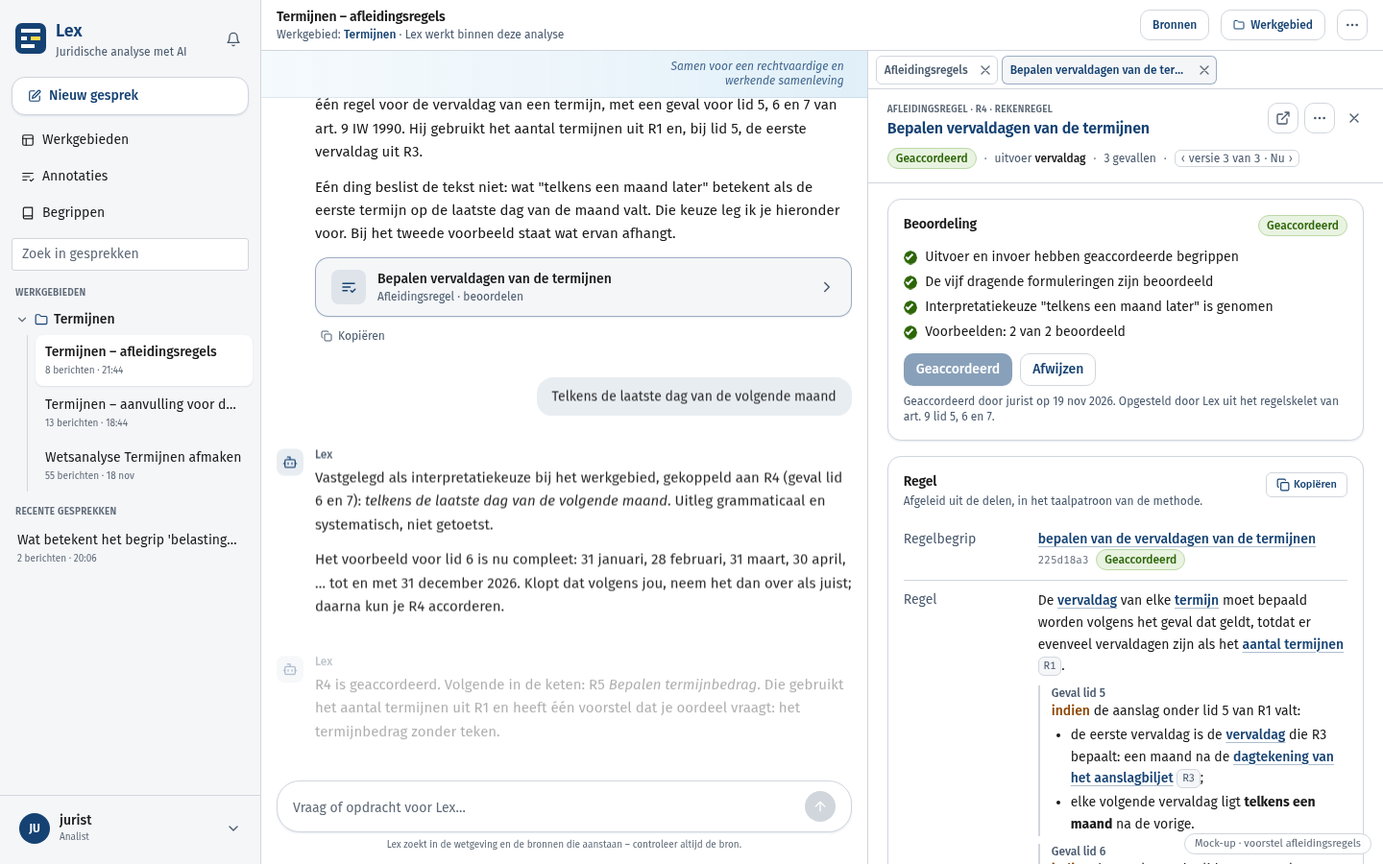
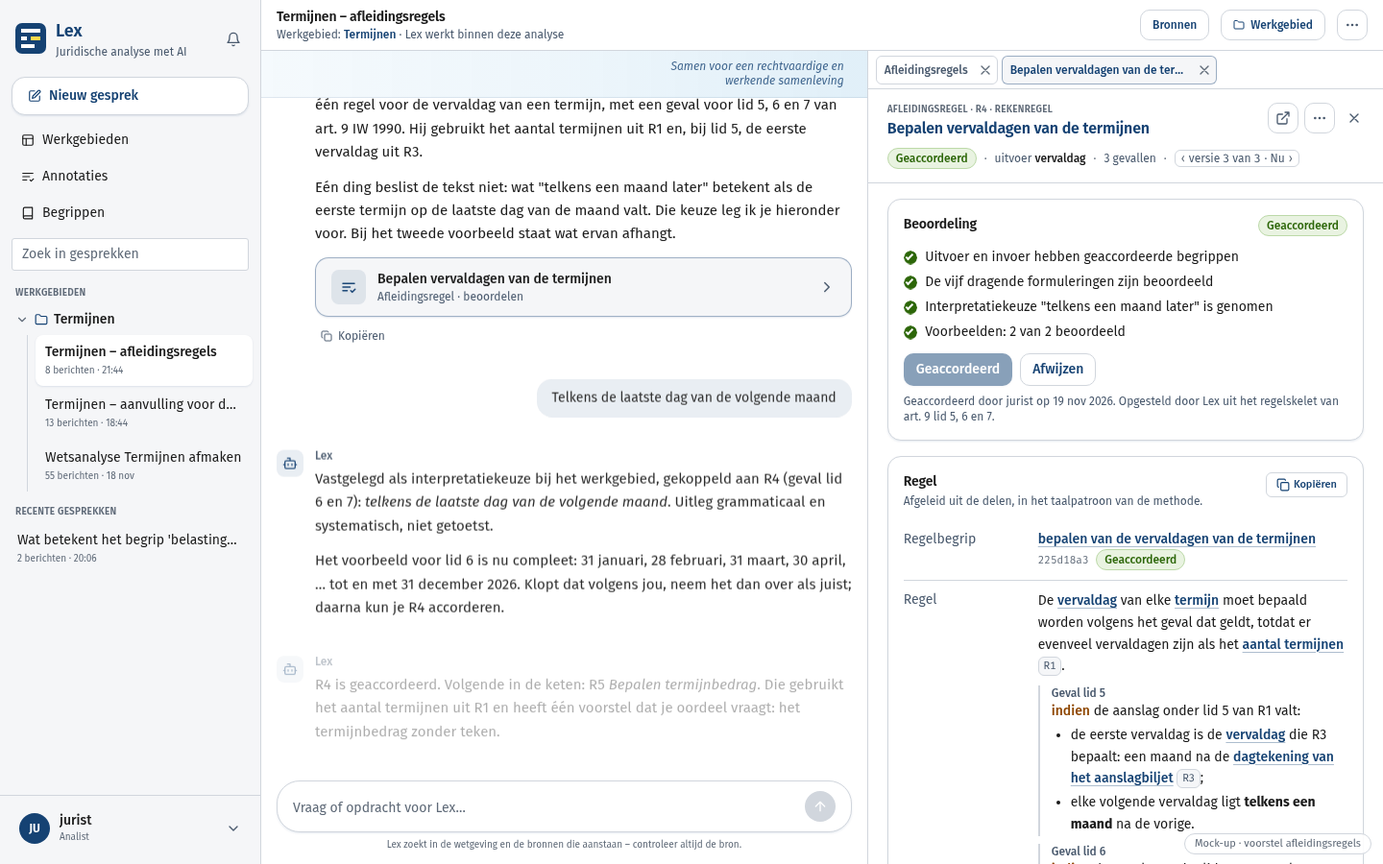
Plan afleidingsregels: richting gekozen, bouwplan R0–R7, afgestemd op de lessen van Termijnen
De regelkaart in de keten is gekozen. §13 geeft het bouwplan in bundels
R0–R7, aansluitend op plan-lessen-e2e-termijnen (#1764): operator op een
formulering, tussenresultaten met rol afgeleid, R8 als beslisregel. De
mock-up volgt. PLAN.md krijgt spoor V.

Changed region(s): [[0.2188, 0.5289, 0.625, 0.7156], [0.4062, 0.4356, 0.5938, 0.4667]]

diff --git a/docs/architectuur/media/afleidingsregels-voorstel.html b/docs/architectuur/media/afleidingsregels-voorstel.html
@@ -163,7 +163,7 @@ body { background: rgb(var(--paper)); color: rgb(var(--ink)); }
               <div class="mb-2"><button type="button" class="inline-flex items-center gap-1.5 rounded-knop-xs px-1 text-xs text-muted transition-colors hover:text-ink"><span>Denkproces</span><svg class="ic -rotate-90" viewBox="0 0 24 24"><path d="m6 9 6 6 6-6"/></svg></button></div>
               <div class="space-y-3 break-words text-lees leading-relaxed text-ink">
                 <p class="leading-relaxed">Ik ben bij de analysevraag begonnen. Die vraagt wanneer er mag worden verrekend en hoe dat doorwerkt in de termijnbedragen. Van daaruit heb ik teruggezocht welke afleidingsregels die waarden leveren, en welke regels hún invoer leveren.</p>
-                <p class="leading-relaxed">Dat zijn zeven regels. Art. 24 lid 2 IW 1990 is een bevoegdheid en geen afleidingsregel; die staat er wel bij, afgewezen. Ik stel de regels van onder naar boven op, zodat elke regel op beoordeelde invoer rust.</p>
+                <p class="leading-relaxed">Dat zijn acht regels. Art. 24 lid 2 IW 1990 geeft een bevoegdheid onder voorwaarden; volgens de methode is dat een beslisregel, dus die staat er als achtste bij. Ik stel de regels van onder naar boven op, zodat elke regel op beoordeelde invoer rust.</p>
               </div>
               <div class="mt-3"><button type="button" data-tab="keten" class="chip flex w-full items-center gap-3 rounded-kaart border border-line bg-surface px-4 py-3 text-left shadow-zacht transition-all hover:-translate-y-0.5 hover:border-lint/40 hover:shadow-kaart">
                 <span class="flex h-9 w-9 shrink-0 items-center justify-center rounded-lg bg-lint/10 text-lint" aria-hidden="true"><svg class="ic18" viewBox="0 0 24 24"><rect x="3" y="15" width="7" height="6" rx="1"/><rect x="14" y="15" width="7" height="6" rx="1"/><rect x="8.5" y="3" width="7" height="6" rx="1"/><path d="M6.5 15v-2.5h11V15M12 12.5V9"/></svg></span>
@@ -357,7 +357,7 @@ body { background: rgb(var(--paper)); color: rgb(var(--ink)); }
                 <ul class="space-y-2 text-sm">
                   <li><span class="pil pil-neutraal mr-1">beleid</span>Leidraad 9.1: de laatste termijn op 31 december (activiteit 5, alleen signaleren).</li>
                   <li><span class="pil pil-neutraal mr-1">beleid</span>Vervaldagen bij een dagtekening op de 29e tot en met de 31e (R3, R4).</li>
-                  <li><span class="pil pil-neutraal mr-1">operator</span>"een maand na" staat in de operatorcatalogus; er is geen gemarkeerde formulering voor.</li>
+                  <li><span class="pil pil-neutraal mr-1">operator</span>"telkens een maand later" krijgt nog een operatorbegrip; voorstel uit de namenlijst: <i>plus één maand</i>.</li>
                 </ul>
               </section>
 
@@ -377,14 +377,14 @@ body { background: rgb(var(--paper)); color: rgb(var(--ink)); }
                   <button type="button" aria-label="Exporteren" class="focus-ring inline-flex shrink-0 items-center justify-center border border-line bg-paper text-muted h-8 w-8 rounded-knop"><svg class="ic" viewBox="0 0 24 24"><circle cx="5" cy="12" r="1"/><circle cx="12" cy="12" r="1"/><circle cx="19" cy="12" r="1"/></svg></button>
                 </div>
               </div>
-              <div class="flex flex-wrap items-center gap-x-2 gap-y-1 text-xs text-muted"><span id="k-teller">3 van 7 beoordeeld</span><span class="text-faint">·</span><span>1 afgewezen</span><span class="text-faint">·</span><span>van onder naar boven</span></div>
+              <div class="flex flex-wrap items-center gap-x-2 gap-y-1 text-xs text-muted"><span id="k-teller">3 van 8 beoordeeld</span><span class="text-faint">·</span><span>van onder naar boven</span></div>
             </div>
           </div>
           <div class="min-h-0 flex-1 overflow-y-auto px-5 py-4">
             <div class="space-y-4 text-sm text-ink">
               <section class="kaart" aria-label="Diagram van de keten">
                 <p class="mb-2 text-xs text-muted">Van de analysevraag naar de basisgegevens. Een pijl loopt van de regel die een begrip afleidt naar de regel die het gebruikt.</p>
-                <div class="overflow-x-auto"><svg viewBox="0 0 460 250" class="keten" role="img" aria-label="Keten: R1 en R3 onderaan; R2, R4 en R5 daarboven; R6 en R7 bovenaan.">
+                <div class="overflow-x-auto"><svg viewBox="0 0 460 250" class="keten" role="img" aria-label="Keten: R1 en R3 onderaan; R2, R4 en R5 daarboven; R6, R7 en R8 bovenaan.">
                   <defs><marker id="pp" viewBox="0 0 8 8" refX="7" refY="4" markerWidth="6" markerHeight="6" orient="auto"><path d="M0,0 L8,4 L0,8 z" fill="rgb(95 106 120)"/></marker></defs>
                   <g fill="none" stroke="rgb(95 106 120)" stroke-width="1.2">
                     <path d="M70 196 V170" marker-end="url(#pp)"/><path d="M90 196 C120 180 200 182 220 170" marker-end="url(#pp)"/><path d="M110 196 C200 182 360 184 380 170" marker-end="url(#pp)"/><path d="M300 196 C280 184 250 182 240 170" marker-end="url(#pp)"/>
@@ -398,6 +398,7 @@ body { background: rgb(var(--paper)); color: rgb(var(--ink)); }
                   <g class="kn"><rect x="150" y="20" width="160" height="40" rx="8"/><text x="162" y="37" class="t1">R7 Tijdstip verrekening</text><text x="162" y="52" class="t2">→ tijdstip van verrekening</text></g>
                   <g class="kn"><rect x="320" y="20" width="130" height="40" rx="8"/><text x="332" y="37" class="t1">R6 Wijze uitbetaling</text><text x="332" y="52" class="t2">→ wijze · beleid</text></g>
                   <line x1="130" y1="148" x2="160" y2="148" stroke="rgb(95 106 120)" stroke-dasharray="2 3"/>
+                  <g class="kn"><rect x="10" y="20" width="120" height="40" rx="8"/><text x="22" y="37" class="t1">R8 Bevoegdheid</text><text x="22" y="52" class="t2">→ ja/nee · art. 24 lid 2</text></g>
                 </svg></div>
               </section>
               <section class="kaart" aria-label="Regels in de keten">
@@ -409,7 +410,7 @@ body { background: rgb(var(--paper)); color: rgb(var(--ink)); }
                   <li class="rij"><div class="min-w-0"><p class="font-medium text-ink">R5 Bepalen termijnbedrag</p><p class="text-xs text-muted">rekenregel · 3 gevallen · → termijnbedrag</p></div><span class="pil pil-neutraal">Niet gestart</span></li>
                   <li class="rij"><div class="min-w-0"><p class="font-medium text-ink">R6 Bepalen wijze van uitbetaling</p><p class="text-xs text-muted">beslisregel · Leidraad 9.3 · → wijze van uitbetaling</p></div><span class="pil pil-neutraal">Niet gestart</span></li>
                   <li class="rij"><div class="min-w-0"><p class="font-medium text-ink">R7 Bepalen tijdstip van verrekening</p><p class="text-xs text-muted">rekenregel · 2 gevallen · → tijdstip van verrekening</p></div><span class="pil pil-neutraal">Niet gestart</span></li>
-                  <li class="rij"><div class="min-w-0"><p class="font-medium text-muted">Art. 24 lid 2 IW 1990</p><p class="text-xs text-muted">geen afleidingsregel: een bevoegdheid onder voorwaarden (rechtsbetrekking)</p></div><span class="pil pil-rood">Afgewezen</span></li>
+                  <li class="rij"><div class="min-w-0"><p class="font-medium text-ink">R8 Bepalen bevoegdheid tot verrekening vóór het verstrijken van de betalingstermijn</p><p class="text-xs text-muted">beslisregel · art. 24 lid 2 · → bevoegdheid (ja/nee)</p></div><span class="pil pil-neutraal">Niet gestart</span></li>
                 </ul>
               </section>
             </div>
@@ -522,7 +523,7 @@ body { background: rgb(var(--paper)); color: rgb(var(--ink)); }
     $("r-door").textContent = "Geaccordeerd door jurist op 19 nov 2026. Opgesteld door Lex uit het regelskelet van art. 9 lid 5, 6 en 7.";
     $("k-r4-pil").className = "pil pil-groen"; $("k-r4-pil").textContent = "Geaccordeerd";
     $("k-r4").setAttribute("class", "kn ok");
-    $("k-teller").textContent = "4 van 7 beoordeeld";
+    $("k-teller").textContent = "4 van 8 beoordeeld";
     $("zb-teller").textContent = "8 berichten · 21:44";
     bericht('<p class="leading-relaxed">R4 is geaccordeerd. Volgende in de keten: R5 <em>Bepalen termijnbedrag</em>. Die gebruikt het aantal termijnen uit R1 en heeft één voorstel dat je oordeel vraagt: het termijnbedrag zonder teken.</p>', true);
   });

diff --git a/docs/architectuur/plan-afleidingsregels-in-lex.md b/docs/architectuur/plan-afleidingsregels-in-lex.md
@@ -1,6 +1,6 @@
 # Plan: de afleidingsregels in Lex (activiteit 3b)
 
-Status: **concept; richting voorgesteld in §12 (combinatie), wacht op akkoord van de gebruiker; nog niets gebouwd** · Datum: 2026-11-19 ·
+Status: **richting gekozen (gebruiker, 19 nov 2026: de regelkaart in de keten, §12.3); bouwplan in §13; nog niets gebouwd** · Datum: 2026-11-19 ·
 Hoort bij: [plan-afleidingsregels.md](plan-afleidingsregels.md) (het onderzoek, de gaten D1–D6, A1–A5, U1–U4, R1–R3, M1–M2),
 de regels van het team voor Termijnen (`afleidingsregels-termijnen-team.md`, PR #1762), [ADR-011](adr-011-relaties-tussen-markeringen.md)
 (het regelskelet), [ADR-005](adr-005-vraag-lex-en-agents.md), [ADR-008](adr-008-antwoordsjablonen.md),
@@ -103,11 +103,16 @@ voor een losse regel en een beslistabel.
 - **`regel_invoer`**: `regel_id`, `begrip_id`, `volgorde`, `rol` (`invoer` of `parameter`), en waar de invoer vandaan
   komt (de `invoer`-relatie in het skelet). Een invoerbegrip dat de uitvoer van een andere regel is, maakt de hiërarchie
   (§3.5).
-- **Operatoren**: het team vond geen gemarkeerde formulering voor *tellen van maanden*, *tijdsduur na tijdstip* en
-  *gedeeld door*. Een operator wordt daarom **geen begrip zonder formulering**: de bewerking komt uit een vaste,
-  generieke catalogus in code (`operatoren.json` in de skill, gegenereerd naar api en frontend zoals de
-  relatiecatalogus). Waar wél een gemarkeerde operator is (*ten hoogste*, R6), wijst de regel naar dat element.
-  Open keuze 4.
+- **Operatoren** (bijgesteld 19 nov 2026, na `plan-lessen-e2e-termijnen.md` §0 en M-3a-1): volgens de methode is een
+  operator een **operatorbegrip op een gemarkeerde formulering**, dat elke formulering met dezelfde bewerking
+  hergebruikt ("na", "gelijke", "telkens een maand later" staan wél in de tekst van Termijnen). Een vaste lijst met
+  namen (`operatoren.json` in de skill, gegenereerd naar api en frontend zoals de relatiecatalogus) dient alleen als
+  voorstel voor de naam. Wat in het taalpatroon zelf staat ("moet berekend worden als", "indien aan alle volgende
+  voorwaarden is voldaan"), is regelvorm en geen begrip. Ontbreekt de formulering echt, dan is dat een open punt
+  (*skeletgat*), geen begrip zonder grondslag. Open keuze 4 is daarmee beslist, tenzij de gebruiker anders kiest.
+- **Tussenresultaten**: een tussenresultaat van een berekening krijgt een eigen regel met een eigen uitvoerbegrip (rol
+  `afgeleid`, PR #1760), dat rust op de afleidingsregel-markering waaruit het volgt. Zo kan het *termijnregime* uit de
+  proef op papier terugkomen.
 - **Parameterwaarden per tijdvak**: R2 (zes weken) en R6 (€ 49) hebben een waarde die per tijdvak kan verschillen.
   **`parameter_waarden`**: `begrip_id`, `waarde`, `eenheid`, `geldig_vanaf`, `geldig_tot` (leeg = onbekend), en het
   element waarop de waarde rust. De regel noemt het begrip, niet het getal (de methode, §2.4 van het onderzoek).
@@ -148,7 +153,10 @@ toelichting"* staat als keuze bij R1, zichtbaar in het artefact, het werkgebied 
 ### 3.7 Status, beoordeling en herbeoordeling
 
 - **Status**: `concept` (Lex stelde voor), `in_beoordeling`, `geaccordeerd`, `geaccordeerd_als_beleidsregel` (R3, R6),
-  `afgewezen` (met reden; R8: "geen afleidingsregel, een rechtsbetrekking met voorwaarden"), `vervangen` (door een
+  `afgewezen` (met reden). R8 (art. 24 lid 2) wees het team af als "een bevoegdheid, geen afleiding"; volgens de
+  methode is een regel die bepaalt of een recht of bevoegdheid bestaat juist een **beslisregel** (M-3b-0 in
+  `plan-lessen-e2e-termijnen.md`). De grondslag van een regel is de afleidingsregel-markering als die er is, en anders
+  de formulering van het afgeleide begrip, ook een rechtsbetrekking, `vervangen` (door een
   opvolger).
 - **Accorderen** volgt de poort uit open keuze 3: de begrippen van uitvoer en invoer zijn beoordeeld; het skelet is een
   signaal.
@@ -263,8 +271,10 @@ van de richting (§9). In alle richtingen:
 
 - **R1–R8** worden het eerste bestand: na fase 3 kan een import van het logboek ze als regels in Termijnen zetten
   (herkomst `import`, status zoals het team besloot), zodat de eerste meting een referentie heeft.
-- **De afwijkingen van de proef** worden regels in de agent: geen tussenbegrip zonder formulering, één beslistabel per
-  uitvoer, een bevoegdheid (art. 24 lid 2) is geen afleidingsregel, een niet geannoteerde bron draagt geen regel.
+- **De afwijkingen van de proef**: één beslistabel per uitvoer en "een niet geannoteerde bron draagt geen regel" worden
+  regels in de agent. Drie werkregels van het team waren strenger dan de methode en worden dat niet: een tussenresultaat
+  krijgt wel een begrip, een operator met een formulering wel een operatorbegrip, en een bevoegdheid onder voorwaarden
+  (R8) is een beslisregel (M-3b-0).
 - **De bevindingen bij de keten** (een rechtsobject als invoer, de volgordeplek van een afgewezen relatie, een
   `uitzondering_op` naar een contextbron) horen bij fase 1 van het onderzoek (A1) en gaan vóór dit plan.
 
@@ -344,14 +354,17 @@ de annotatie) en verwijst naar de regel. De keuze is aan de gebruiker.
    generieke kader (ADR-006), ook zonder gemarkeerde formulering?
 5. **Interpretatiekeuzes als eigen object op werkgebiedniveau** (voorstel), of als open punt per regel?
 6. **Beleidsregels** (R3, R6): in dezelfde lijst met het brontype zichtbaar (voorstel), of apart?
-7. **Een afgewezen regel** (R8): bewaren met de reden en de verwijzing naar de rechtsbetrekking (voorstel), of niet
-   opslaan?
+7. **R8** (art. 24 lid 2): volgens de methode een beslisregel met uitvoer *bevoegdheid tot verrekening vóór het
+   verstrijken van de betalingstermijn* (voorstel, M-3b-0), of afgewezen zoals het team besloot? Een afgewezen regel
+   blijft in elk geval bewaard met de reden.
 8. **De soort van een begrip** (D5, bedrag, aantal, datum, ja/nee): nu meenemen voor de eenduidigheidstoets, of later?
 9. **De import van R1–R8** uit het logboek van het team als eerste bestand in Termijnen: ja of nee?
 10. **Scope** (M1 uit het onderzoek): de skill, `CLAUDE.md` en PLAN zeggen nu "het begin van activiteit 3"; met dit plan
     wordt het "activiteit 1 tot en met 3b".
 
 ## 11. De PR-volgorde
+
+*Vervangen door het bouwplan van §13 (19 nov 2026); hieronder de eerste versie.*
 
 Elke PR levert iets bruikbaars op; na elke fase kan het stoppen. Fase 1 van het onderzoek (A1, het skelet betrouwbaar)
 gaat ervóór of loopt ernaast.
@@ -490,8 +503,8 @@ Wat dit betekent voor §3 tot en met §11:
 - het datamodel blijft;
 - §3.6 krijgt bij een interpretatiekeuze het veld `methode` (teleologisch, wetshistorisch, systematisch, grammaticaal);
 - de voorbeelden (D3) schuiven naar voren, naar PR 4 en 6, omdat ze bij het beoordelen horen;
-- de operatoren volgen de methode: een generiek operatorbegrip waar een formulering is, en de catalogus waar die er niet
-  is (keuze 4 blijft open).
+- de operatoren volgen de methode: een operatorbegrip op een gemarkeerde formulering, met de namenlijst als voorstel
+  (§3.3, bijgesteld na `plan-lessen-e2e-termijnen.md`).
 
 ### 12.4 Hoe de mock-up de drie maten laat zien
 
@@ -504,3 +517,154 @@ gesprekskop, dock, paneel met tabs, begripskaartopbouw), gebouwd met de klassen 
   op de kaart, voorstellen in geel;
 - *gebruik*: de vraagkaart beantwoorden werkt de regel, het voorbeeld en de beoordeling bij; daarna kan *Accorderen*.
   De tab *Afleidingsregels* toont de keten met R4 erin.
+
+## 13. Bouwplan
+
+**Besluit (gebruiker, 19 nov 2026):** akkoord met de regelkaart in de keten (§12.3). Dit bouwplan vervangt de
+PR-volgorde van §11 en sluit aan op de bundels van `plan-lessen-e2e-termijnen.md` (PR #1764, §9), zodat niets twee keer
+gebouwd wordt. Werkwijze zoals altijd:
+- elke stap begint met een eigen korte toets of dit de beste verbetering is;
+- PR's worden per bundel verzameld, één keer getest en één keer uitgerold; de hoofdsessie voert de regie;
+- gedrag van Lex wordt licht gemeten: één run, een gerichte set.
+
+### 13.1 Wat er eerst moet liggen
+
+Uit `plan-lessen-e2e-termijnen.md`, en niet opnieuw in dit plan:
+- **#1760** (geen begrip zonder grondslag, rol `afgeleid` voor een tussenresultaat) is gemerged;
+- **lessenbundel 2**: de leesvorm `weergave?vorm=skelet` (L-3b-2), met het skelet uit `werkgebied_rapport.regelskelet_regels`. De
+  regels-agent en het paneel lezen het skelet daaruit;
+- **lessenbundel 3**: de keten legt het skelet goed (L-2-1, L-2-2: geen rechtsobject als invoer, invoer op volgorde,
+  `uitzondering_op` en `toepassing`). Zonder betrouwbaar skelet is een conceptregel van Lex niet beter dan het skelet;
+- **lessenbundel 4**: de open punten (L-X-1). Dat is hetzelfde object als de interpretatiekeuzes en open punten van §3.6:
+  één bouw, niet twee.
+
+Bundel R0 hieronder gaat samen met lessenbundel 1 in één docs-PR.
+
+### 13.2 De bundels
+
+**R0. Besluit en methode** (docs, skill; geen code)
+- ADR-017 *Afleidingsregels*: het datamodel van §3 met de bijstellingen van 19 nov 2026, de regelkaart in de keten,
+  de grens met RegelSpraak, en de open punten van M-3b-2 met het veld `methode`.
+- De skill krijgt `references/afleidingsregels.md`, buiten de methodemarkers:
+  - de taalpatronen;
+  - één regel per uitvoer, met gevallen;
+  - de grondslag van een regel (M-3b-0);
+  - tussenresultaten en operatorbegrippen;
+  - interpretatie en voorbeelden.
+
+  Daarnaast `operatoren.json` als namenlijst, met generator en drift-test.
+- Scope: *Grenzen* in `SKILL.md`, de projectroot-`CLAUDE.md` en `docs/PLAN.md` worden "activiteit 1 tot en met 3b"; PLAN
+  krijgt een spoor voor 3b.
+- Vraagt de besluiten van §10 punt 2 tot en met 9; de voorstellen staan erbij.
+- Klaar als: de ADR is aangenomen en `genereer_jas_klassen.py --check` groen is.
+
+**R1. De regel als object** (api; lessen L-3b-1)
+- Tabellen in `api/app/db.py`, idempotent zoals de rest (`create_all` plus `reconcile_schema`):
+  - `regels`, `regel_gevallen`, `regel_invoer`, `regel_dragers` en `parameter_waarden`;
+  - revisies zoals `begrip_revisies`, en de audit in `werkgebied_audit`.
+- Nieuwe modules, met de begrippen als voorbeeld:
+  - `regel_contracts.py` en `regel_store.py`;
+  - router `regels.py` onder `/v1/werkgebieden/{id}/regels`, met de hiërarchie op `/regels/hierarchie`;
+  - `regeltekst.py`: de afgeleide regeltekst in het taalpatroon, deterministisch, met tests per soort en per vorm van
+    voorwaarden (alle, één van, genest);
+  - `regel_poort.py`: wat er openstaat voor accorderen (begrippen beoordeeld, keuzes genomen, voorbeelden beoordeeld),
+    als lijst die het paneel toont.
+- `artefact_versies.SOORTEN` krijgt `regel` en `regels`; `gesprek_contracts.Artefact` de soort `regel`.
+- De poort van de api: een regel zonder grondslag (geen dragende markering) wordt geweigerd, zoals een begrip sinds #1760.
+- Tests: Termijnen R1–R8 als vaste set. Alles moet in het object passen, zonder vrije tekst voor skelet of parameters;
+  dat is de maat van L-3b-1. Plus het routecontract in `tests/poort/`.
+- Klaar als: de set past, de poort-tests en `scripts/kruistests.sh` groen zijn.
+
+**R2. Het artefact en de kaart** (frontend, BFF; na R1)
+- `lib/artefact.ts`: de soorten `regel` (verplicht `werkgebied_id` en `regel_id`) en `regels` (verplicht
+  `werkgebied_id`), met labels.
+- BFF-routes onder `app/api/werkgebieden/[id]/regels/**`, met `metTrace()` en alle query-parameters doorgestuurd.
+- De kaart en de keten:
+  - `components/werkgebieden/RegelPagina.tsx` bouwt de kaart uit dezelfde delen als `BegripPagina`: sectiekaart,
+    `StatusLabel`, `Lijst`, `KaartVoorstelKaart` voor voorstellen per veld, `VersieKiezer` en `ExportKnop`;
+  - `RegelKeten.tsx` is de tab *Afleidingsregels*: de lijst in de volgorde van de keten, met het diagram uit
+    `components/graaf` in een eigen modus en geen tweede graafweergave.
+- `WerkgebiedArtefactPaneel` opent beide; ze staan als tabs naast elkaar, zoals nu.
+- Werkgebied:
+  - `ARTEFACT_SOORTEN` krijgt `regels`, met de pagina's `/werkgebieden/[id]/artefacten/regels` en
+    `/regels/[regelId]`;
+  - *Vraag Lex* per rij, en geen Lex-knoppen op de kaart.
+- Op de begripskaart (U4): *Afgeleid door* en *Gebruikt in*. In het regelskelet van de annotatie: "rust op regel R4".
+- Export: *Kopieer als Markdown* (lijsten, geen tabellen) en JSON.
+- Tests:
+  - vitest voor de regeltekst en de poortweergave;
+  - Playwright met de mock-up als referentie (`docs/architectuur/media/afleidingsregels-voorstel.html`);
+  - `knoppen.test.ts` en de bestaande generieke-componententests blijven groen.
+- Klaar als: R4 uit de set ziet eruit als de mock-up, op desktop en op 390 px.
+
+**R3. Interpretatiekeuzes en open punten op de regel** (api en frontend; bouwt op lessenbundel 4)
+- De open punten van L-X-1 krijgen de koppeling naar regel en geval en het veld `methode`.
+- De kaart toont ze onder *Interpretatiekeuzes* en *Open punten*.
+- De vraagkaart in het gesprek (`VragenKaart`) schrijft de gekozen lezing via de api. Het is dezelfde weg als de
+  vraagkaarten van het werkgebied, geen nieuwe.
+- Klaar als: de zeven keuzes en zes beleidspunten van Termijnen er zonder vrije tekst in passen.
+
+**R4. Termijnen als eerste bestand** (script; op acceptatie, na akkoord)
+- `api/scripts/importeer_regels_termijnen.py` zet R1–R8 met hun keuzes en open punten in Termijnen, met herkomst
+  `import`.
+- R8 volgt het besluit van §10 punt 7.
+- Dit is de referentie voor de meting van R5.
+
+**R5. Lex stelt regels voor, deterministisch** (graph-qa; lessen L-3b-3, A3)
+- `agent/agents/regels.py` in de vorm van ADR-005, geregistreerd in `agents/register.py`. Het profiel staat in
+  `.claude/lex-agents/regels.md` en gaat via de generators.
+- Taken:
+  - `inventariseren`: van de analysevraag terug naar de regels, en de keten;
+  - `volledigheidstoets`: de gaten die de regelspecialist aanwees;
+  - `opstellen`: een conceptregel uit het skelet en de begrippen;
+  - `uitsluiting_toetsen`.
+
+  Alle vier gebeuren in code.
+- Een klik op een suggestie (`actie`) kiest de taak zonder model.
+- De stand per regel staat bij de api (`regel_voortgang`, zoals `bronselectie_voortgang`), en de code kiest de volgende
+  regel.
+- Wat een beurt oplevert, opent als chip (`PaneelChip`) met `regel` of `regels`.
+- Elke nieuwe aanroep naar de api krijgt een plek in `agent_toegang.TOEGESTAAN`, met de begrenzing erbij.
+- Meten op Termijnen, tegen de set van R4:
+  - recall en precisie van de velden;
+  - de gaten van de volledigheidstoets tegen die van de regelspecialist.
+
+  Daarna WA TRM H1, en blind op een werkgebied met een reken- en een beslisregel.
+
+**R6. Waar het model meedoet** (graph-qa; na een meting)
+- Een strikte modelstap, telkens met de fragmenten waarop het voorstel rust, voor:
+  - de soort bij twijfel;
+  - het label van een geval;
+  - een regelbegrip dat nog niet bestaat (via de begrippen-agent, op een passage);
+  - het signaleren van een interpretatiekeuze met lezingen.
+- Voorbeelden voorstellen:
+  - de gevallen deterministisch uit de regel: normaal, elke voorwaarde niet vervuld, de grens van elke vergelijking,
+    nul, negatief en onbekend;
+  - daarnaast het praktijkvoorbeeld van het werkgebied.
+
+  De uitkomst blijft een voorstel; het oordeel is van de jurist.
+- Meten: licht, één run, met de keuzes van Termijnen als set.
+
+**R7. Rapport, graaf, lezen en onderhoud** (api en graph-qa)
+- Het rapport (ADR-009) krijgt het hoofdstuk *Afleidingsregels*, met daarin interpretatiekeuzes en te signaleren beleid;
+  de schema-versie gaat omhoog.
+- `regel_projectie.py` naast `begrip_projectie.py`: de regels in de named graph van het werkgebied, met het kleine
+  vocabulaire van §7.
+- De leesroute (A5): `search_regels` in graph-qa, bevestigd door de api.
+- Herbeoordeling: `begrip_onderhoud` ziet ook regels. Een veranderde drager, een heropende laag, een opvolger van een
+  invoerbegrip of een gewijzigde keuze zet de regel op *herbeoordelen*.
+
+**Later, buiten dit plan:** de volledige voorbeeldreeks van activiteit 4b, de soort van een begrip (P15/D5), het feitmodel
+en RegelSpraak.
+
+### 13.3 Volgorde en wat parallel kan
+
+- R0 gaat eerst, samen met lessenbundel 1, omdat beide over hetzelfde besluit gaan.
+- R1 kan beginnen zodra de ADR er ligt. De tabellen hangen niet af van lessenbundel 3, de conceptregels van Lex wel.
+- R2 volgt op R1. R3 volgt op R1 en lessenbundel 4.
+- R4 komt na R1 en R3, en vraagt een akkoord voor de wijziging op acceptatie.
+- R5 komt na lessenbundel 3 en R4. R6 komt na de meting van R5.
+- R7 kan na R2, in delen. Het rapport en de projectie zijn onafhankelijk van de agent.
+
+Parallel kunnen R2 en R3 (andere bestanden), en R7 rapport en R7 projectie. Een sessie per bundel, in een eigen worktree;
+twee schrijvers raken nooit dezelfde bestanden.

diff --git a/docs/PLAN.md b/docs/PLAN.md
@@ -117,6 +117,7 @@ Kort en alleen als wegwijzer; de inhoud staat in de genoemde documenten.
 | U | De centrale agent met subagents (ADR-016) | Af: A1–A7 gebouwd en gemeten (A6: slotmeting #1562), de supervisor en de vlag `CENTRALE_AGENT` zijn weg, en sinds `v1.14.0` (15 nov 2026) draait de centrale agent op productie. De bevindingen uit de E2E Rekeningafspraken (B-1, B-3, B-6, het denkproces D-1–D-15) staan op acceptatie (16 nov 2026). Open: zie *Centrale agent na A6*, en B-2 (vraagt een meting) |
 | Q | Lex Bench: een onafhankelijke kwaliteitslaag, eerst op de bronselectie | Plan goedgekeurd (16 nov 2026, besluiten in §22), bouw begint met stap 1 van §20.5: twintig casussen (vijf blind), een blind agententeam naast Lex, recall, precisie en overlap, geen automatische goedkeuring; deel B: één testset per meetas, opruimplan en de kwaliteit van de componenttests. [`architectuur/plan-lex-bench.md`](architectuur/plan-lex-bench.md) |
 | T | De context van een beurt zichtbaar: contextmeter en `/context` (ADR-015) | Plan goedgekeurd en na review herzien (12 nov 2026), niets gebouwd: context én verbruik per beurt, geen extra telaanroepen, de boom via de api, niets wacht op ADR-016. [`architectuur/plan-contextweergave.md`](architectuur/plan-contextweergave.md) |
+| V | Activiteit 3b: afleidingsregels in Lex | Richting gekozen (19 nov 2026): de regelkaart in de keten; bouwplan R0–R7, niets gebouwd. Sluit aan op de lessen van Termijnen (PR #1764). [`architectuur/plan-afleidingsregels-in-lex.md`](architectuur/plan-afleidingsregels-in-lex.md) §12–§13 |
 
 ---
 
